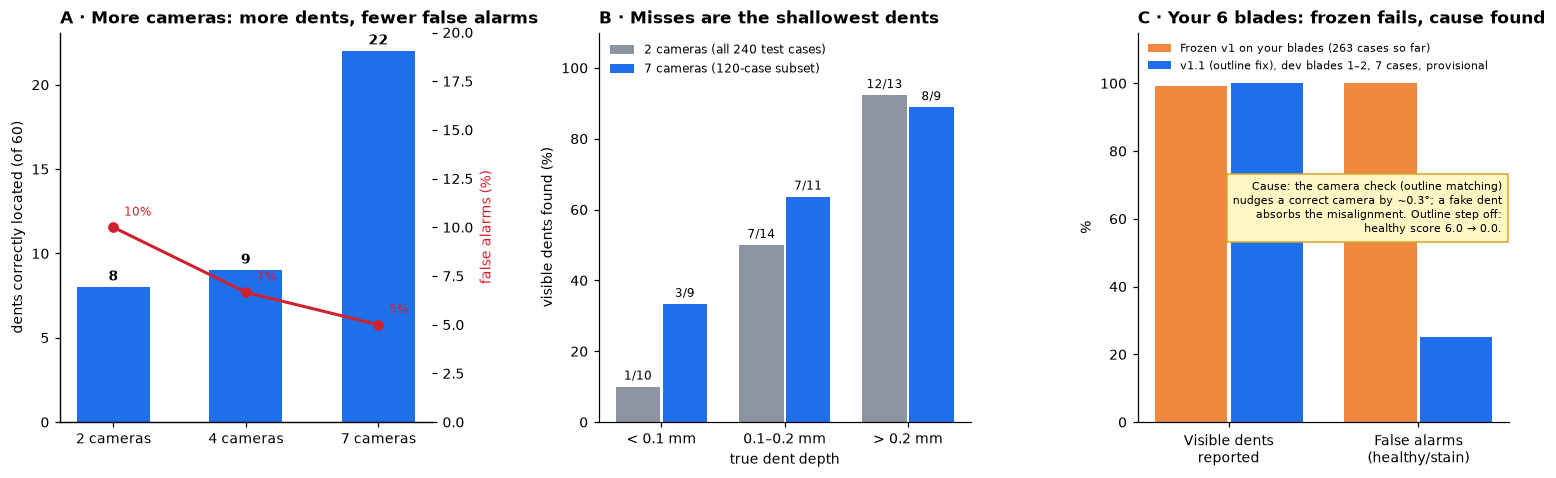
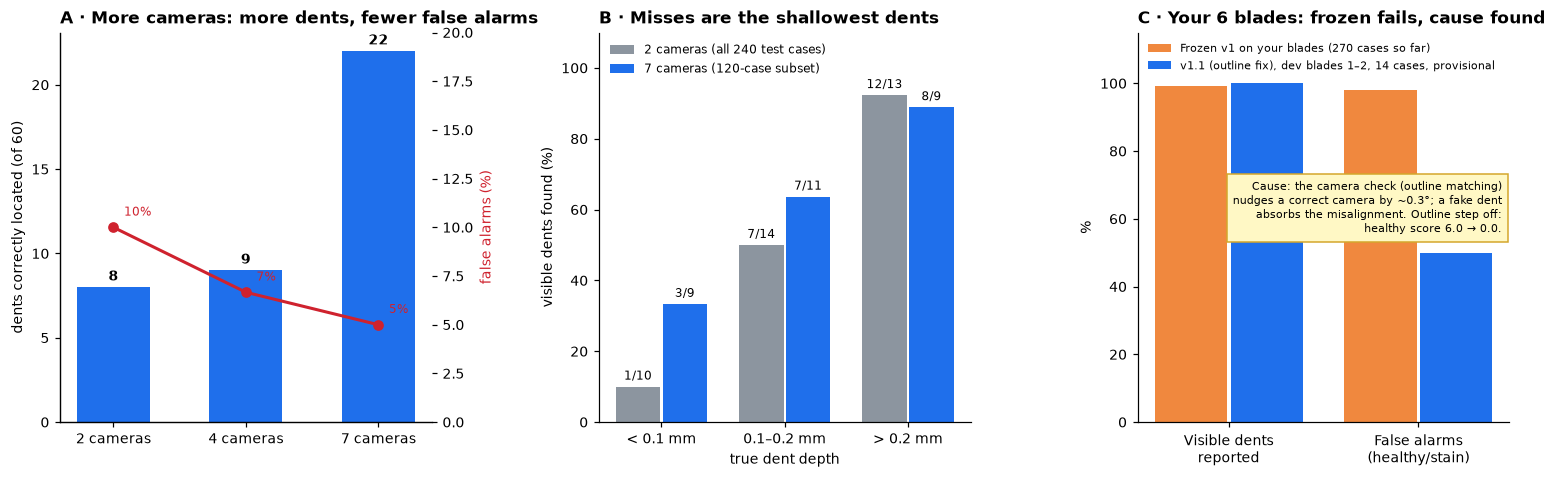
Auto-update results (interim)

Changed region(s): [[0.8946, 0.5272, 0.9563, 0.7029], [0.8638, 0.1172, 0.9563, 0.1464], [0.8638, 0.1757, 0.9254, 0.205]]

diff --git a/results.html b/results.html
@@ -6,7 +6,7 @@
 <link rel="stylesheet" href="styles.css">
 <style>main.res{max-width:1100px;margin:0 auto;padding:32px 16px 64px;display:grid;gap:18px} main.res small{color:var(--muted)}</style>
 </head><body><main class="res">
-<span class="eyebrow">BladeDelta results · 08 Oct 2026, 07:31 UTC</span>
+<span class="eyebrow">BladeDelta results · 08 Oct 2026, 07:54 UTC</span>
 <h1>Sealed-test results <span class="chip partial">updating automatically</span></h1>
 <p>This page is rebuilt automatically from the experiment outputs. The test set is 240 cases on 30 blade shapes never used
 for development; the method and its threshold were locked before any test image existed. Brackets are 95% intervals,
@@ -38,13 +38,13 @@ The disagreements are small, but on your blades they are enough to pull the came
 <div class="tablewrap"><table><thead><tr><th>Method</th><th>Separation (AUROC)</th><th>Visible dents found</th><th>…in the right place</th><th>False alarms</th><th>Hidden dents: abstains</th></tr></thead><tbody><tr><td><b>Ours (evidence-bounded)</b></td><td>0.82 <small>[0.71–0.90]</small></td><td>54% <small>[39–68]</small></td><td>54% <small>[39–68]</small></td><td>10% <small>[4–17]</small></td><td>85% <small>[77–91]</small></td></tr><tr><td><b>Ours without the evidence test</b></td><td>0.82 <small>[0.71–0.90]</small></td><td>84% <small>[68–95]</small></td><td>70% <small>[56–84]</small></td><td>32% <small>[21–43]</small></td><td>45% <small>[36–54]</small></td></tr><tr><td><b>2D detector lifted to 3D</b></td><td>0.71 <small>[0.63–0.80]</small></td><td>24% <small>[12–40]</small></td><td>16% <small>[5–30]</small></td><td>4% <small>[1–9]</small></td><td>96% <small>[93–99]</small></td></tr><tr><td><b>Free-form field (per vertex)</b></td><td>0.63 <small>[0.54–0.70]</small></td><td>14% <small>[4–24]</small></td><td>11% <small>[3–20]</small></td><td>4% <small>[1–9]</small></td><td>99% <small>[97–100]</small></td></tr><tr><td><b>Discrete search (earlier method)</b></td><td>0.53 <small>[0.43–0.65]</small></td><td>5% <small>[0–13]</small></td><td>5% <small>[0–13]</small></td><td>6% <small>[1–10]</small></td><td>98% <small>[95–100]</small></td></tr><tr><td><b>Unchanged CAD (never reports)</b></td><td>0.50 <small>[0.50–0.50]</small></td><td>0% <small>[0–0]</small></td><td>0% <small>[0–0]</small></td><td>0% <small>[0–0]</small></td><td>100% <small>[100–100]</small></td></tr></tbody></table></div>
 <h3>Ours, by capture condition</h3><div class="tablewrap"><table><thead><tr><th>Capture</th><th>Visible dents found</th><th>False alarms</th></tr></thead><tbody><tr><td>nominal</td><td>33%</td><td>10%</td></tr><tr><td>camera</td><td>60%</td><td>14%</td></tr><tr><td>light</td><td>78%</td><td>0%</td></tr><tr><td>both</td><td>44%</td><td>15%</td></tr></tbody></table></div>
 <figure><img src="img/results/cad6_blades.png" alt="Six CAD blades"></figure>
-<h2>New blades: your six real blade CAD models (263 of 456 cases so far)</h2>
+<h2>New blades: your six real blade CAD models (270 of 456 cases so far)</h2>
 <p>Six real blade designs with platforms and dovetail roots (33–88 mm), imported from STEP. Dents use real sizes
 (0.1–1.0 mm deep, 1–5 mm radius). Nothing was retrained or re-tuned: the method, its appearance model (trained only on
 Rotor37) and its threshold are the frozen ones, so this measures how well it transfers to new blade designs.</p>
-<div class="tablewrap"><table><thead><tr><th>Method</th><th>Separation (AUROC)</th><th>Visible dents found</th><th>…in the right place</th><th>False alarms</th><th>Hidden dents: abstains</th></tr></thead><tbody><tr><td><b>Ours (evidence-bounded)</b></td><td>0.76 <small>[0.66–0.93]</small></td><td>99% <small>[98–100]</small></td><td>69% <small>[53–82]</small></td><td>100% <small>[100–100]</small></td><td>5% <small>[0–14]</small></td></tr><tr><td><b>Ours without the evidence test</b></td><td>0.76 <small>[0.66–0.93]</small></td><td>99% <small>[98–100]</small></td><td>69% <small>[53–82]</small></td><td>100% <small>[100–100]</small></td><td>2% <small>[0–7]</small></td></tr></tbody></table></div>
-<h3>Does it depend on blade size?</h3><ul><li>Separation (AUROC): 0.76 on CAD6 vs 0.82 on the Rotor37 sealed test (transfer gap 0.05).</li><li>Visible dents found 99%, false alarms 100%, hidden dents abstained 5%.</li><li>Best blade 1 (24 mm), worst blade 3 (31 mm).</li><li>Blade size vs. dents found, across 6 blades: Spearman ρ = -0.26 (p = 0.74; only 6 blades, so weak evidence).</li><li>Smaller blades (≤ median span) found 100% vs larger 98%. The same dent in mm is relatively larger on a small blade, so we also check depth relative to the blade: ρ(found, relative depth) = -0.14, ρ(found, depth in mm) = -0.15.</li><li>Found rate by relative-depth tertile (shallow → deep): 100%, 100%, 97%.</li><li>With a threshold recalibrated leave-one-blade-out on CAD6 negatives: found 15%, false alarms 6%.</li><li>Recommended blade for the physical capture: blade 4 (better transfer of blades 4 and 5).</li></ul>
-<div class="tablewrap"><table><thead><tr><th>Blade</th><th>Airfoil span</th><th>Cases</th><th>Visible dents</th><th>AUROC</th><th>Found</th><th>False alarms</th></tr></thead><tbody><tr><td>1</td><td>24 mm</td><td>76</td><td>31</td><td>0.98</td><td>100%</td><td>100%</td></tr><tr><td>2</td><td>26 mm</td><td>76</td><td>31</td><td>0.72</td><td>100%</td><td>100%</td></tr><tr><td>3</td><td>31 mm</td><td>76</td><td>31</td><td>0.64</td><td>97%</td><td>100%</td></tr><tr><td>4</td><td>40 mm</td><td>35</td><td>23</td><td>0.96</td><td>100%</td><td>100%</td></tr></tbody></table></div>
+<div class="tablewrap"><table><thead><tr><th>Method</th><th>Separation (AUROC)</th><th>Visible dents found</th><th>…in the right place</th><th>False alarms</th><th>Hidden dents: abstains</th></tr></thead><tbody><tr><td><b>Ours (evidence-bounded)</b></td><td>0.76 <small>[0.66–0.90]</small></td><td>99% <small>[98–100]</small></td><td>69% <small>[53–82]</small></td><td>98% <small>[90–100]</small></td><td>5% <small>[0–14]</small></td></tr><tr><td><b>Ours without the evidence test</b></td><td>0.76 <small>[0.66–0.90]</small></td><td>99% <small>[98–100]</small></td><td>69% <small>[53–82]</small></td><td>99% <small>[95–100]</small></td><td>2% <small>[0–7]</small></td></tr></tbody></table></div>
+<h3>Does it depend on blade size?</h3><ul><li>Separation (AUROC): 0.76 on CAD6 vs 0.82 on the Rotor37 sealed test (transfer gap 0.05).</li><li>Visible dents found 99%, false alarms 98%, hidden dents abstained 5%.</li><li>Best blade 1 (24 mm), worst blade 3 (31 mm).</li><li>Blade size vs. dents found, across 6 blades: Spearman ρ = -0.26 (p = 0.74; only 6 blades, so weak evidence).</li><li>Smaller blades (≤ median span) found 100% vs larger 98%. The same dent in mm is relatively larger on a small blade, so we also check depth relative to the blade: ρ(found, relative depth) = -0.14, ρ(found, depth in mm) = -0.15.</li><li>Found rate by relative-depth tertile (shallow → deep): 100%, 100%, 97%.</li><li>With a threshold recalibrated leave-one-blade-out on CAD6 negatives: found 15%, false alarms 5%.</li><li>Recommended blade for the physical capture: blade 4 (better transfer of blades 4 and 5).</li></ul>
+<div class="tablewrap"><table><thead><tr><th>Blade</th><th>Airfoil span</th><th>Cases</th><th>Visible dents</th><th>AUROC</th><th>Found</th><th>False alarms</th></tr></thead><tbody><tr><td>1</td><td>24 mm</td><td>76</td><td>31</td><td>0.98</td><td>100%</td><td>100%</td></tr><tr><td>2</td><td>26 mm</td><td>76</td><td>31</td><td>0.72</td><td>100%</td><td>100%</td></tr><tr><td>3</td><td>31 mm</td><td>76</td><td>31</td><td>0.64</td><td>97%</td><td>100%</td></tr><tr><td>4</td><td>40 mm</td><td>42</td><td>23</td><td>0.71</td><td>100%</td><td>75%</td></tr></tbody></table></div>
 <h2>Risk vs. coverage</h2><figure><img src="img/results/risk_coverage.png" alt="Risk-coverage curves" style="max-width:560px">
 <figcaption>Sweeping the evidence threshold: how many cases get a damage claim (coverage) and what fraction of those claims are wrong (risk). Lower and further right is better.</figcaption></figure>
 <h2>Ablations (36 development cases)</h2><div class="tablewrap"><table><thead><tr><th>Variant</th><th>Separation</th><th>Visible found</th><th>False alarms</th></tr></thead><tbody><tr><td>Full method</td><td>0.85 <small>[0.77–0.96]</small></td><td>67% <small>[41–88]</small></td><td>0% <small>[0–0]</small></td></tr><tr><td>No camera correction</td><td>0.68 <small>[0.49–0.84]</small></td><td>89% <small>[72–100]</small></td><td>39% <small>[21–56]</small></td></tr><tr><td>No stain model</td><td>0.75 <small>[0.56–0.90]</small></td><td>89% <small>[77–100]</small></td><td>50% <small>[33–69]</small></td></tr><tr><td>Random starts instead of smart proposals</td><td>0.42 <small>[0.23–0.62]</small></td><td>6% <small>[0–20]</small></td><td>0% <small>[0–0]</small></td></tr><tr><td>Fixed grid of 4 starts</td><td>–</td><td>0% <small>[0–0]</small></td><td>–</td></tr><tr><td>Whole image, not reliable pixels</td><td>0.69 <small>[0.49–0.85]</small></td><td>78% <small>[53–95]</small></td><td>6% <small>[0–20]</small></td></tr><tr><td>No brightness field</td><td>0.85 <small>[0.72–0.95]</small></td><td>94% <small>[80–100]</small></td><td>33% <small>[11–59]</small></td></tr><tr><td>4 views</td><td>0.83 <small>[0.71–0.95]</small></td><td>78% <small>[61–94]</small></td><td>6% <small>[0–19]</small></td></tr><tr><td>7 views</td><td>0.85 <small>[0.69–0.98]</small></td><td>78% <small>[61–94]</small></td><td>11% <small>[0–29]</small></td></tr></tbody></table></div>

diff --git a/index.html b/index.html
@@ -58,7 +58,7 @@
       <span class="eyebrow">Latest updates · 7 October 2026, afternoon</span>
       <h2 id="h-latest">Latest results, in pictures</h2>
       <p><b>Final sealed-test numbers and every method side by side: <a href="results.html">live results page</a></b> (rebuilt automatically as experiments finish).</p>
-      <!--AUTO-STATUS-START--><div class="note"><strong>Automatic status · 08 Oct 2026, 07:31 UTC</strong><p>5 of 12 phases done. Sealed test: separation 0.82, 54% of visible dents found, 10% false alarms. <a href="results.html">Full results and charts →</a></p></div><!--AUTO-STATUS-END-->
+      <!--AUTO-STATUS-START--><div class="note"><strong>Automatic status · 08 Oct 2026, 07:55 UTC</strong><p>5 of 12 phases done. Sealed test: separation 0.82, 54% of visible dents found, 10% false alarms. <a href="results.html">Full results and charts →</a></p></div><!--AUTO-STATUS-END-->
       <div class="stats">
         <div class="stat"><span class="big">213 / 240</span><span class="lbl">sealed-test cases done (27 never-seen blades); numbers below are preliminary</span></div>
         <div class="stat"><span class="big">0.81</span><span class="lbl">separation of visible dents from healthy/stained blades (was 0.89 at 80 cases)</span></div>
